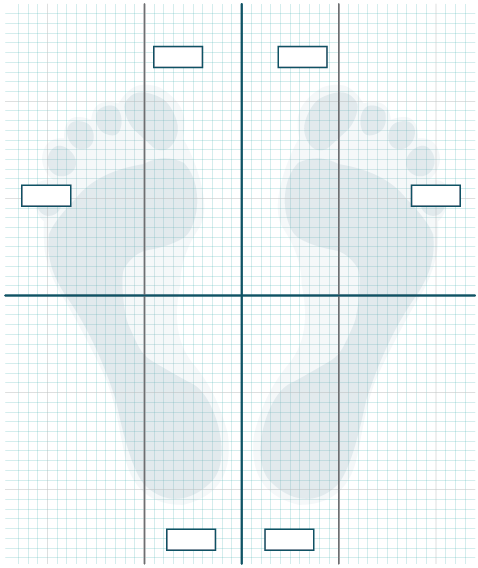
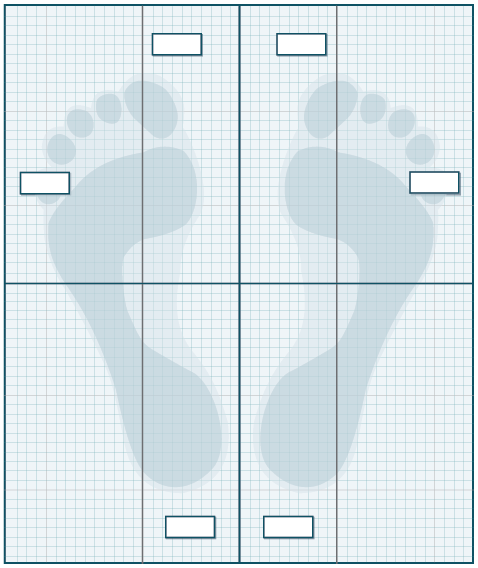
feat(design): display weigths and cells on new places

diff --git a/src/components/pedana/BackgroundLayer.vue b/src/components/pedana/BackgroundLayer.vue
@@ -1,12 +1,10 @@
 <template>
   <canvas :id="id"> </canvas>
 </template>
-<script lang="ts">
+<script>
 import Canvas from "@/entities/Canvas";
 import Vue from "vue";
 import {
-  leftPlatformCells,
-  rightPlatformCells,
   canvasSmoothCoef,
   idealBarycenterLeftX,
   idealBarycenterRightX,
@@ -14,31 +12,31 @@ import {
   pedanaHeight
 } from "@/common/constants.js";
 const arrowLength = 5;
-const cells = leftPlatformCells.concat(rightPlatformCells);
-let c: Canvas;
-let ctx: CanvasRenderingContext2D;
 
 export default Vue.extend({
-  name: "BackgrounfLayer",
+  name: "BackgroundLayer",
   props: ["width", "height", "id"],
+  data: () => ({ c: null }),
   mounted() {
-    c = new Canvas(this.id, pedanaWidth, pedanaHeight, [`img/pedana-bg.png`]);
+    this.c = new Canvas(this.id, pedanaWidth, pedanaHeight, [
+      `img/pedana-bg.png`
+    ]);
     //this.$emit("canvasCreated", c);
-    ctx = c.ctx;
-    c.preloadImages(this.drawBg);
+    this.c.preloadImages(this.drawBg);
 
     //this.drawBg();
   },
   methods: {
     drawBg() {
-      const background = c.images.get(`img/pedana-bg.png`);
+      console.log("drawBg", this.id, this.c);
+      const background = this.c.images.get(`img/pedana-bg.png`);
       if (!background) return;
       //const background = new Image();
       // background.src = "img/pedana-bg.png";
 
       // Make sure the image is loaded first otherwise nothing will draw.
       // background.onload = () => {
-      c.ctx.drawImage(
+      this.c.ctx.drawImage(
         background,
         0,
         0,
@@ -53,11 +51,11 @@ export default Vue.extend({
       //};
     },
 
-    drawXAxis(): void {
+    drawXAxis() {
       const y = this.height / 2 + canvasSmoothCoef;
       const from = { x: 0, y };
       const to = { x: this.width - arrowLength, y };
-      c.drawLine(from, to, "rgb(0, 82, 100)", 2);
+      this.c.drawLine(from, to, "rgb(0, 82, 100)", 2);
 
       // c.drawArrowhead(from, to, arrowLength);
 
@@ -66,11 +64,11 @@ export default Vue.extend({
       //   y: to.y - 8
       // });
     },
-    drawYAxis(): void {
+    drawYAxis() {
       const x = this.width / 2 + canvasSmoothCoef;
       const from = { x, y: 0 + arrowLength };
       const to = { x, y: this.height };
-      c.drawLine(from, to, "rgb(0, 82, 100)", 2);
+      this.c.drawLine(from, to, "rgb(0, 82, 100)", 2);
 
       // c.drawArrowhead(to, from, arrowLength);
       // c.drawText("Y", {
@@ -100,7 +98,7 @@ export default Vue.extend({
     markIdealBarycenters() {
       const lineLength = 250;
       let x = idealBarycenterLeftX;
-      c.drawLine(
+      this.c.drawLine(
         { x, y: -lineLength },
         { x, y: lineLength },
         "rgb(167, 169, 172)",
@@ -108,20 +106,20 @@ export default Vue.extend({
       );
 
       x = idealBarycenterRightX;
-      c.drawLine(
+      this.c.drawLine(
         { x, y: -lineLength },
         { x, y: lineLength },
         "rgb(167, 169, 172)",
         2
       );
     },
-    draw(): void {
-      ctx.save();
-      c.transdormCoordinates();
+    draw() {
+      this.c.ctx.save();
+      this.c.transdormCoordinates();
       //this.drawLeftPlatform();
       //this.drawRightPlatform();
       this.markIdealBarycenters();
-      ctx.restore();
+      this.c.ctx.restore();
       this.drawXAxis();
       this.drawYAxis();
     }

diff --git a/src/mixins/PedanaCanvasMixin.vue b/src/mixins/PedanaCanvasMixin.vue
@@ -6,12 +6,15 @@ import { total } from "@/common/helpers";
 import {
   leftPlatformCells,
   rightPlatformCells,
+  leftDisplayCells,
+  rightDisplayCells,
   pedanaWidth,
   pedanaHeight
 } from "@/common/constants.js";
 import { Cell } from "@/entities/Cell";
 import Canvas from "@/entities/Canvas";
 const cells = leftPlatformCells.concat(rightPlatformCells);
+const cellsDisplay = leftDisplayCells.concat(rightDisplayCells);
 import Vue from "vue";
 import { ipcRenderer } from "electron";
 
@@ -42,7 +45,7 @@ export default Vue.extend({
       printC.clear();
       const bg = document.getElementById(this.backgroundCanvasId);
       const diff = document.getElementById(this.diffCanvasId);
-      console.log(diff);
+      console.log("combineCanvasesToImage");
       printC.ctx.drawImage(bg, 0, 0, width, height);
       printC.ctx.drawImage(this.c.canvas, 0, 0, width, height);
       printC.ctx.drawImage(diff, 0, height + 30, width, 40);
@@ -113,33 +116,35 @@ export default Vue.extend({
     },
     displayWeights() {
       if (this.weights.length === 0) return;
-      this.ctx.fillStyle = "black";
-      this.ctx.font = "16px Arial";
+      this.ctx.fillStyle = "#005264";
+      this.ctx.font = "bold 16px Arial";
       this.ctx.save();
       for (let i = 0; i < cells.length; i++) {
         this.$nextTick(() => {
-          const cell = new Cell(cells[i], this.weights[i]);
+          const cell = new Cell(cells[i], this.weights[i], cellsDisplay[i]);
           cell.draw(this.c, this.totalWeight);
         });
 
-        let x = this.width / 2 + cells[i].x;
-        let y = this.height / 2 - cells[i].y;
-        if (cells[i].y < 0) {
-          y += 20;
-          //y < 0, x > 0
-          if (cells[i].x > 0) x += 20;
-        } else {
-          //y > 0, x > 0
-          y -= 20;
-          if (cells[i].x > 0) x -= 20;
+        const x = this.width / 2 + cells[i].x;
+        const y = this.height / 2 - cells[i].y;
+
+        if (i === 0 || i === 3) {
+          y -= 35;
+          x -= 18;
         }
-        if (cells[i].x < 0) {
-          x -= 30;
-          //y < 0, x < 0,
-          if (cells[i].y < 0) x -= 20;
-          //y > 0, x < 0
-          else x += 15;
+        if (i === 1) {
+          y -= 33;
+          x += 10;
         }
+        if (i === 4) {
+          y -= 34;
+          x -= 48;
+        }
+        if (i === 2 || i === 5) {
+          y -= 10;
+        }
+        if (i === 2) x -= 40;
+        if (i === 5) x += 5;
         this.ctx.fillText(this.displayNumber(this.weights[i]).toString(), x, y);
       }
       this.ctx.restore();

diff --git a/src/entities/Cell.ts b/src/entities/Cell.ts
@@ -1,15 +1,20 @@
 import { Point } from "@/entities/Point";
 import Canvas from "@/entities/Canvas";
 
-const width = 55;
-const height = 47;
+// const width = 55;
+// const height = 47;
 export class Cell {
   x: number;
   y: number;
+  displayX: number;
+  displayY: number;
+
   weight: number;
-  constructor(center: Point, weight: number) {
+  constructor(center: Point, weight: number, display: Point) {
     this.x = center.x;
     this.y = center.y;
+    this.displayX = display.x;
+    this.displayY = display.y;
     this.weight = weight;
   }
 
@@ -22,10 +27,16 @@ export class Cell {
 
     const angle = deviation.direction === "up" ? 180 : 0;
     c.ctx.save();
-    c.ctx.translate(this.x, this.y);
+    c.ctx.translate(this.displayX, this.displayY);
     c.ctx.rotate((angle * Math.PI) / 180);
 
-    c.ctx.drawImage(image, -width / 2, -height / 2, width, height);
+    c.ctx.drawImage(
+      image,
+      -image.width / 2,
+      -image.height / 2,
+      image.width,
+      image.height
+    );
     c.ctx.restore();
   }
   getDeviation(

diff --git a/src/components/exams/compare/ComparePedanasDlg.vue b/src/components/exams/compare/ComparePedanasDlg.vue
@@ -1,17 +1,17 @@
 <template>
   <v-dialog :value="value" fullscreen :style="{ zIndex: 1000 }" persistent>
     <v-card class="pa-3">
-      <v-toolbar dense flat>
-        <v-btn icon @click="print">
-          <v-icon>mdi-printer</v-icon>
+      <v-toolbar dense flat class="pt-3 mb-10">
+        <v-btn @click="print" color="primary">
+          <v-icon left>mdi-printer</v-icon> Print
         </v-btn>
-        <v-btn icon @click="saveAsPdf">
-          <v-icon>mdi-content-save</v-icon>
+        <v-btn @click="saveAsPdf" color="primary" class="ml-5">
+          <v-icon left>mdi-content-save</v-icon> Save
         </v-btn>
         <v-spacer />
-        <v-btn @click="close" icon>
-          <v-icon color="error">mdi-close-circle</v-icon></v-btn
-        >
+        <v-btn @click="close" color="primary" class="px-5">
+          Close
+        </v-btn>
       </v-toolbar>
       <div
         v-if="value"

diff --git a/src/common/constants.js b/src/common/constants.js
@@ -26,6 +26,35 @@ const rightPlatformCells = [
     y: -255
   }
 ];
+const leftDisplayCells = [
+  {
+    x: -61,
+    y: 193
+  },
+  {
+    x: -191,
+    y: 55
+  },
+  {
+    x: -48,
+    y: -197
+  }
+];
+const rightDisplayCells = [
+  {
+    x: 61,
+    y: 193
+  },
+  {
+    x: 192,
+    y: 55
+  },
+  {
+    x: 49,
+    y: -197
+  }
+];
+
 const canvasSmoothCoef = 0.5;
 const idealBarycenterLeftX = -102.3333;
 const idealBarycenterRightX = 102.3333;
@@ -132,6 +161,8 @@ const examTypes = [
 export {
   leftPlatformCells,
   rightPlatformCells,
+  leftDisplayCells,
+  rightDisplayCells,
   canvasSmoothCoef,
   idealBarycenterLeftX,
   idealBarycenterRightX,

diff --git a/src/components/pedana/Pedana.vue b/src/components/pedana/Pedana.vue
@@ -235,7 +235,13 @@
 import Canvas from "@/entities/Canvas";
 
 import { displayNumber } from "@/common/helpers";
-import { images, Hz, pedanaHeight, pedanaWidth } from "@/common/constants.js";
+import {
+  images,
+  Hz,
+  pedanaHeight,
+  pedanaWidth,
+  data
+} from "@/common/constants.js";
 import { mapState, mapActions } from "vuex";
 import BackgroundLayer from "@/components/pedana/BackgroundLayer.vue";
 import {
@@ -300,7 +306,7 @@ export default Vue.extend({
     error: false,
     isPlaying: false,
     readingsIdx: -1,
-    readingsData: [],
+    readingsData: data,
     isEndReading: false,
     isConnected: false,
     isEndStreaming: true,

diff --git a/src/background.ts b/src/background.ts
@@ -46,7 +46,7 @@ async function createWindow() {
   const pedana = new Device();
 
   pedana.on("data", data => {
-    // console.log("data:", data);
+    //console.log("data:", data);
     win.webContents.send("data", data);
   });
 

diff --git a/README.md b/README.md
@@ -1,7 +1,9 @@
 # pedana-electron-app
+```
+node v14.7.0 (npm v6.14.8)
+```
 
 ## Project setup
-
 ```
 npm install
 ```
